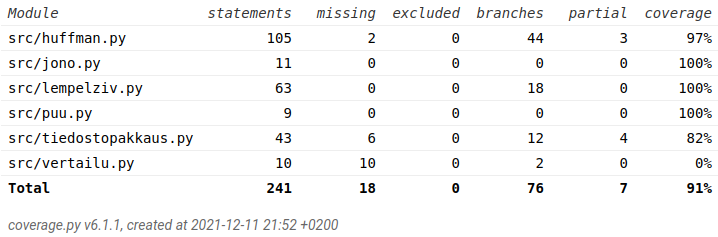
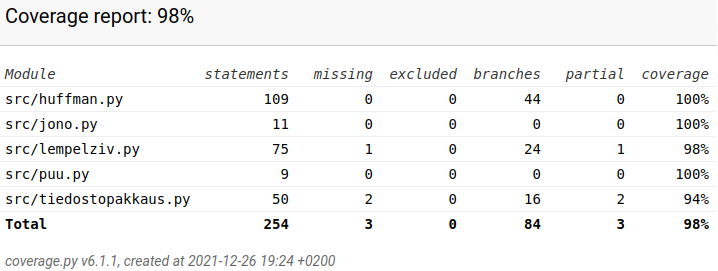
dok

diff --git a/src/tests/tiedostopakkaus_test.py b/src/tests/tiedostopakkaus_test.py
@@ -12,7 +12,7 @@ class TestTiedostopakkaus(unittest.TestCase):
 		sys.stdout = capturedOutput
 		tiedostopakkaus.main()
 		sys.stdout = sys.__stdout__
-		self.assertEqual(capturedOutput.getvalue(), "Pakattavan tiedoston koko: 12 tavua.\nPakatun tiedoston koko: 3 tavua.\nPakkauskoko pieneni 75%.\n")
+		self.assertEqual(capturedOutput.getvalue(), "Pakattavan tiedoston koko: 12 tavua.\nPakatun tiedoston koko: 78 tavua.\nPakkauskoko on 650% alkuperäisestä tiedostosta.\n")
 
 	@patch('builtins.input', side_effect=['1', '1', "testitiedostot/tuksu.txt"])
 	def test_main_huffman_pakkaus_tuksu(self, mock_inputs):
@@ -20,21 +20,47 @@ class TestTiedostopakkaus(unittest.TestCase):
 		sys.stdout = capturedOutput
 		tiedostopakkaus.main()
 		sys.stdout = sys.__stdout__
-		self.assertEqual(capturedOutput.getvalue(), "Pakattavan tiedoston koko: 1395 tavua.\nPakatun tiedoston koko: 658 tavua.\nPakkauskoko pieneni 53%.\n")
+		self.assertEqual(capturedOutput.getvalue(), "Pakattavan tiedoston koko: 1402 tavua.\nPakatun tiedoston koko: 923 tavua.\nPakkauskoko on 66% alkuperäisestä tiedostosta.\n")
 
-	'''
-	@patch('builtins.input', side_effect=[2, 1, "pakatut/abc.hfm"])
-	def test_main_huffman_purku(self, mock_inputs):
+	@patch('builtins.input', side_effect=['1', '1', "testitiedostot/finnlex.txt"])
+	def test_main_huffman_pakkaus_finnlex(self, mock_inputs):
+		capturedOutput = io.StringIO()
+		sys.stdout = capturedOutput
 		tiedostopakkaus.main()
-    '''
-        
+		sys.stdout = sys.__stdout__
+		self.assertEqual(capturedOutput.getvalue(), "Pakattavan tiedoston koko: 422884 tavua.\nPakatun tiedoston koko: 232909 tavua.\nPakkauskoko on 55% alkuperäisestä tiedostosta.\n")
+
+	@patch('builtins.input', side_effect=['2', '1', "pakatut/abc.hfm"])
+	def test_main_huffman_purku_abc(self, mock_inputs):
+		capturedOutput = io.StringIO()
+		sys.stdout = capturedOutput
+		tiedostopakkaus.main()
+		sys.stdout = sys.__stdout__
+		self.assertEqual(capturedOutput.getvalue(), "Purettavan tiedoston koko: 78 tavua.\nPuretun tiedoston koko: 12 tavua.\nTiedostokoko on 15% pakatusta tiedostosta.\n")
+
+	@patch('builtins.input', side_effect=['2', '1', "pakatut/tuksu.hfm"])
+	def test_main_huffman_purku_tuksu(self, mock_inputs):
+		capturedOutput = io.StringIO()
+		sys.stdout = capturedOutput
+		tiedostopakkaus.main()
+		sys.stdout = sys.__stdout__
+		self.assertEqual(capturedOutput.getvalue(), "Purettavan tiedoston koko: 923 tavua.\nPuretun tiedoston koko: 1402 tavua.\nTiedostokoko on 152% pakatusta tiedostosta.\n")
+
+	@patch('builtins.input', side_effect=['2', '1', "pakatut/finnlex.hfm"])
+	def test_main_huffman_purku_finnlex(self, mock_inputs):
+		capturedOutput = io.StringIO()
+		sys.stdout = capturedOutput
+		tiedostopakkaus.main()
+		sys.stdout = sys.__stdout__
+		self.assertEqual(capturedOutput.getvalue(), "Purettavan tiedoston koko: 232909 tavua.\nPuretun tiedoston koko: 422884 tavua.\nTiedostokoko on 182% pakatusta tiedostosta.\n")
+
 	@patch('builtins.input', side_effect=['1', '2', "testitiedostot/abc.txt"])
 	def test_main_lempel_pakkaus_abc(self, mock_inputs):
 		capturedOutput = io.StringIO()
 		sys.stdout = capturedOutput
 		tiedostopakkaus.main()
 		sys.stdout = sys.__stdout__
-		self.assertEqual(capturedOutput.getvalue(), "Pakattavan tiedoston koko: 12 tavua.\nPakatun tiedoston koko: 15 tavua.\nPakkauskoko pieneni -25%.\n")
+		self.assertEqual(capturedOutput.getvalue(), "Pakattavan tiedoston koko: 12 tavua.\nPakatun tiedoston koko: 15 tavua.\nPakkauskoko on 125% alkuperäisestä tiedostosta.\n")
 
 	@patch('builtins.input', side_effect=['1', '2', "testitiedostot/tuksu.txt"])
 	def test_main_lempel_pakkaus_tuksu(self, mock_inputs):
@@ -42,7 +68,15 @@ class TestTiedostopakkaus(unittest.TestCase):
 		sys.stdout = capturedOutput
 		tiedostopakkaus.main()
 		sys.stdout = sys.__stdout__
-		self.assertEqual(capturedOutput.getvalue(), "Pakattavan tiedoston koko: 1395 tavua.\nPakatun tiedoston koko: 434 tavua.\nPakkauskoko pieneni 69%.\n")
+		self.assertEqual(capturedOutput.getvalue(), "Pakattavan tiedoston koko: 1402 tavua.\nPakatun tiedoston koko: 441 tavua.\nPakkauskoko on 31% alkuperäisestä tiedostosta.\n")
+
+	@patch('builtins.input', side_effect=['1', '2', "testitiedostot/finnlex.txt"])
+	def test_main_lempel_pakkaus_finnlex(self, mock_inputs):
+		capturedOutput = io.StringIO()
+		sys.stdout = capturedOutput
+		tiedostopakkaus.main()
+		sys.stdout = sys.__stdout__
+		self.assertEqual(capturedOutput.getvalue(), "Pakattavan tiedoston koko: 422884 tavua.\nPakatun tiedoston koko: 184218 tavua.\nPakkauskoko on 44% alkuperäisestä tiedostosta.\n")
 
 	@patch('builtins.input', side_effect=['2', '2', "pakatut/abc.lzw"])
 	def test_main_lempel_purku_abc(self, mock_inputs):
@@ -50,7 +84,7 @@ class TestTiedostopakkaus(unittest.TestCase):
 		sys.stdout = capturedOutput
 		tiedostopakkaus.main()
 		sys.stdout = sys.__stdout__
-		self.assertEqual(capturedOutput.getvalue(), "Pakattavan tiedoston koko: 15 tavua.\nPakatun tiedoston koko: 11 tavua.\nPakkauskoko pieneni -27%.\n")
+		self.assertEqual(capturedOutput.getvalue(), "Purettavan tiedoston koko: 15 tavua.\nPuretun tiedoston koko: 11 tavua.\nTiedostokoko on 73% pakatusta tiedostosta.\n")
 
 	@patch('builtins.input', side_effect=['2', '2', "pakatut/tuksu.lzw"])
 	def test_main_lempel_purku_tuksu(self, mock_inputs):
@@ -58,11 +92,20 @@ class TestTiedostopakkaus(unittest.TestCase):
 		sys.stdout = capturedOutput
 		tiedostopakkaus.main()
 		sys.stdout = sys.__stdout__
-		self.assertEqual(capturedOutput.getvalue(), "Pakattavan tiedoston koko: 434 tavua.\nPakatun tiedoston koko: 1394 tavua.\nPakkauskoko pieneni 221%.\n")
+		self.assertEqual(capturedOutput.getvalue(), "Purettavan tiedoston koko: 441 tavua.\nPuretun tiedoston koko: 1402 tavua.\nTiedostokoko on 318% pakatusta tiedostosta.\n")
 
-	'''
-    # get_input palauttaa arvon '1'
-	@patch('yourmodule.get_input', return_value='1')
-	def test_pakkaus(self, input):
-		self.assertEqual(answer(), 'you entered yes')
-    '''
+	@patch('builtins.input', side_effect=['2', '2', "pakatut/finnlex.lzw"])
+	def test_main_lempel_purku_finnlex(self, mock_inputs):
+		capturedOutput = io.StringIO()
+		sys.stdout = capturedOutput
+		tiedostopakkaus.main()
+		sys.stdout = sys.__stdout__
+		self.assertEqual(capturedOutput.getvalue(), "Purettavan tiedoston koko: 184218 tavua.\nPuretun tiedoston koko: 422873 tavua.\nTiedostokoko on 230% pakatusta tiedostosta.\n")
+
+	@patch('builtins.input', side_effect=['2', '2', "pakatut/eitiedostoa.lzw", "pakatut/abc.lzw"])
+	def test_main_lempel_purku_eitiedostoa(self, mock_inputs):
+		capturedOutput = io.StringIO()
+		sys.stdout = capturedOutput
+		tiedostopakkaus.main()
+		sys.stdout = sys.__stdout__
+		self.assertEqual(capturedOutput.getvalue(), "Tiedostoa ei löytynyt.\nPurettavan tiedoston koko: 15 tavua.\nPuretun tiedoston koko: 11 tavua.\nTiedostokoko on 73% pakatusta tiedostosta.\n")

diff --git a/src/tests/lempel-ziv_test.py b/src/tests/lempel-ziv_test.py
@@ -15,32 +15,33 @@ class TestLempelziv(unittest.TestCase):
 
     def test_pakkaa_testi(self):
         tulos = self.pakkaus1.pakkaa()
-        indeksit = [84, 228, 109, 228, 32, 111, 110, 32, 116, 101, 115, 116, 105, 263, 101, 107, 266, 105]
+        indeksit = [84, 228, 109, 228, 32, 111, 110, 32, 116, 101, 115, 116, 105, 266, 101, 107, 269, 105]
         self.assertEqual(tulos, indeksit)
 
     def test_pakkaa_abc(self):
         tulos = self.pakkaus2.pakkaa()
-        indeksit = [97, 98, 99, 10, 97, 260, 97, 10, 98, 98]
+        indeksit = [97, 98, 99, 10, 97, 263, 97, 10, 98, 98]
         self.assertEqual(tulos, indeksit)
 
     def test_pakkaa_tuksu(self):
         tulos = self.pakkaus3.pakkaa()
-        indeksit = [80, 97, 108, 97, 115, 105, 110, 32, 106, 117, 117, 114, 105, 32, 265, 100, 101, 115, 116, \
-                    97, 32, 107, 111, 117, 108, 117, 273, 97, 110, 105, 46, 32, 256, 258, 260, 262, 264, 266, \
-                    268, 270, 272, 274, 276, 278, 280, 282, 284, 286, 288, 259, 261, 263, 265, 267, 269, 117, \
-                    271, 282, 298, 279, 281, 274, 302, 287, 257, 305, 291, 308, 294, 311, 296, 275, 277, 315, \
-                    301, 285, 319, 289, 306, 292, 309, 295, 313, 328, 300, 317, 331, 304, 290, 307, 293, 310, \
-                    312, 297, 339, 316, 283, 342, 320, 344, 335, 324, 348, 327, 299, 351, 318, 343, 334, 323, \
-                    347, 326, 314, 340, 352, 303, 354, 364, 346, 337, 349, 360, 330, 371, 333, 322, 374, 325, \
-                    338, 377, 341, 379, 321, 345, 336, 383, 376, 329, 386, 332, 388, 356, 366, 384, 393, 370, \
-                    395, 355, 365, 375, 359, 400, 362, 372, 381, 390, 358, 368, 361, 353, 380, 389, 357, 367, \
-                    350, 378, 402, 373, 411, 419, 385, 401, 363, 410, 418, 399, 369, 408, 416, 397, 405, 413, \
-                    421, 428, 417, 398, 392, 432, 415, 396, 404, 391, 406, 443, 387, 403, 382, 412, 420, 394, \
-                    439, 435, 447, 437, 455, 409, 440, 436, 454, 427, 461, 457, 453, 426, 433, 445, 452, 425, \
-                    407, 444, 451, 424, 431, 414, 450, 423, 430, 442, 479, 422, 429, 441, 448, 484, 456, 446, \
-                    468, 474, 286, 10, 490, 472, 478, 438, 466, 491, 473, 449, 485, 462, 458, 464, 470, 476, \
-                    482, 488, 499, 434, 501, 498, 460, 513, 497, 483, 512, 471, 477, 519, 516, 521, 510, 459, \
-                    465, 517, 522, 511, 524, 509, 487, 527, 508, 481, 534, 507, 475, 537, 463, 469, 285]
+        indeksit = [80, 97, 108, 97, 115, 105, 110, 32, 106, 117, 117, 114, 105, 32, 268, 100, 101, 115, 116, \
+                    97, 32, 107, 111, 117, 108, 117, 276, 97, 110, 105, 46, 32, 259, 261, 263, 265, 267, 269, \
+                    271, 273, 275, 277, 279, 281, 283, 285, 287, 289, 291, 262, 264, 266, 268, 270, 272, 117, \
+                    274, 285, 301, 282, 284, 277, 305, 290, 260, 308, 294, 311, 297, 314, 299, 278, 280, 318, \
+                    304, 288, 322, 292, 309, 295, 312, 298, 316, 331, 303, 320, 334, 307, 293, 310, 296, 313, \
+                    315, 300, 342, 319, 286, 345, 323, 347, 338, 327, 351, 330, 302, 354, 321, 346, 337, 326, \
+                    350, 329, 317, 343, 355, 306, 357, 367, 349, 340, 352, 363, 333, 374, 336, 325, 377, 328, \
+                    341, 380, 344, 382, 324, 348, 339, 386, 379, 332, 389, 335, 391, 359, 369, 387, 396, 373, \
+                    398, 358, 368, 378, 362, 403, 365, 375, 384, 393, 361, 371, 364, 356, 383, 392, 360, 370, \
+                    353, 381, 405, 376, 414, 422, 388, 404, 366, 413, 421, 402, 372, 411, 419, 400, 408, 416, \
+                    424, 431, 420, 401, 395, 435, 418, 399, 407, 394, 409, 446, 390, 406, 385, 415, 423, 397, \
+                    442, 438, 450, 440, 458, 412, 443, 439, 457, 430, 464, 460, 456, 429, 436, 448, 455, 428, \
+                    410, 447, 454, 427, 434, 417, 453, 426, 433, 445, 482, 425, 432, 444, 451, 487, 459, 449, \
+                    471, 477, 289, 10, 493, 475, 481, 441, 469, 494, 476, 452, 488, 465, 461, 467, 473, 479, \
+                    485, 491, 502, 437, 504, 501, 463, 516, 500, 486, 515, 474, 480, 522, 519, 524, 513, 462, \
+                    468, 520, 525, 514, 527, 512, 490, 530, 511, 484, 537, 510, 478, 540, 466, 472, 288, 10, \
+                    548, 10, 97, 549]
         self.assertEqual(tulos, indeksit)
 
     def test_pura_tiedosto_on_olemassa(self):

diff --git a/src/tiedostopakkaus.py b/src/tiedostopakkaus.py
@@ -6,8 +6,6 @@ from lempelziv import Lempelziv
 def main():
     if not os.path.exists('pakatut'):
         os.makedirs('pakatut')
-    if not os.path.exists('puretut'):
-        os.makedirs('puretut')
 
     pakkaa_vai_pura = int(input("Haluatko pakata vai purkaa tiedoston?\n1 = pakkaa\n2 = pura\n"))
     huffman_vai_lempel = int(input("Valittava algoritmi:\n1 = Huffman\n2 = Lempel-Ziv\n"))

diff --git a/dokumentaatio/testaus.md b/dokumentaatio/testaus.md
@@ -6,16 +6,20 @@ Testauksessa tullaan huomioimaan, että pakatun tiedoston koko on odotusten muka
 
 ### Testikattavuus
 
-Sovelluksen haarautumakattavuus on 91%.
+Sovelluksen haarautumakattavuus on 98%.
 
 ![](./kuvat/testikattavuus.png)
 
 ### Yksikkötestaus
 
-Ohjelmaa on testattu kattavilla yksikkötesteillä, joissa on käytetty useita erilaisia ja kokoisia tekstitiedostoja. Tekstitiedostot kattavat ainakin yleisimmät poikkeustapaukset, jotka on otettu myös algoritmeissa huomioon.
+Ohjelmaa on testattu kattavilla yksikkötesteillä, joissa on käytetty useita erilaisia ja kokoisia tekstitiedostoja. Testitiedostot kattavat ainakin yleisimmät poikkeustapaukset, jotka on otettu myös algoritmeissa huomioon.
+
+Testeissä on tarkasteltu sekä lopputulosta (ohjelman tulostusta) että puurakennetta (Huffman) ja indeksejä (Lempel-Ziv).
 
 ### Järjestelmätestaus
 
-Automaattisten testien lisäksi ohjelmaa on testattu manuaalisesti ongelmien havaitsemiseksi. Käyttöohje ja vaatimusmäärittely on otettu huomioon testauksessa. Ohjelmassa ei ole huomioitu käyttäjän virhesyötteitä, vaan on keskitytty algoritmien toimintaan ja testaukseen.
+Automaattisten testien lisäksi ohjelmaa on testattu manuaalisesti ongelmien havaitsemiseksi. Käyttöohje ja vaatimusmäärittely on otettu huomioon testauksessa. Ohjelmassa ei ole huomioitu käyttäjän virhesyötteitä (paitsi virheellinen tiedostonimi), vaan on keskitytty algoritmien toimintaan ja testaukseen.
 
-Pakkausalgoritmeja on testattu useilla esimerkkitekstitiedostoilla, jotka löytyvät kansiosta testitiedostot.
+Pakkauksen ja purkamisen onnistumista on tarkasteltu myös vertaamalla saatuja tuloksia yleisesti saatuihin arvoihin.
+
+Pakkausalgoritmeja on testattu useilla esimerkkitekstitiedostoilla, jotka löytyvät kansiosta [testitiedostot](https://github.com/Noissi/tiralabra/blob/master/testitiedostot).

diff --git a/dokumentaatio/toteutus.md b/dokumentaatio/toteutus.md
@@ -11,11 +11,11 @@ Vertailu suoritetaan tiedostossa vertailu.py. Vertailussa tarkastellaan molempie
 
 ![](./kuvat/pakkauskuvaaja1.png)
 
-Vaihtuvasisältöisen tiedoston pakkauskoko laskee aluksi huomattavasti ja jää sitten noin 50 prosenttiin (Huffman 55 %, Lempel-Ziv 44%).
+Vaihtuvasisältöisen tiedoston pakkauskoko laskee aluksi huomattavasti ja jää sitten noin 50 prosenttiin (Huffman 55 %, Lempel-Ziv 44 %).
 
 ![](./kuvat/pakkauskuvaaja2.png)
 
-Toistosisältöisen tiedoston pakkauskoko laskee alussa huomattavasti, jonka jälkeen laskee hiljalleen alemmas (Huffman 255, 36, 17, 15 ja 13 %, Lempel-Ziv 60, 21, 10, 7 ja 3%).
+Toistosisältöisen tiedoston pakkauskoko laskee alussa huomattavasti, jonka jälkeen laskee hiljalleen alemmas (Huffman 255, 36, 17, 15 ja 13 %, Lempel-Ziv 60, 21, 10, 7 ja 3 %).
 
 Näissä esimerkeissä Lempel-Ziv vaikuttaa parhaimmalta kaikissa tapauksissa. Todellisuudessa pienillä tiedostoilla Huffmanin algoritmilla pääsisi parempaan pakkaussuhteeseen. Esimerkeissä Huffmanin pakkaukset sisältävät myös sanakirjan, jonka kokoa ei ole tässä työssä optimoitu. Ilman sanakirjaa, pakkauskoko olisi huomattavasti pienempi kuin Lempel-Zivilla.
 
